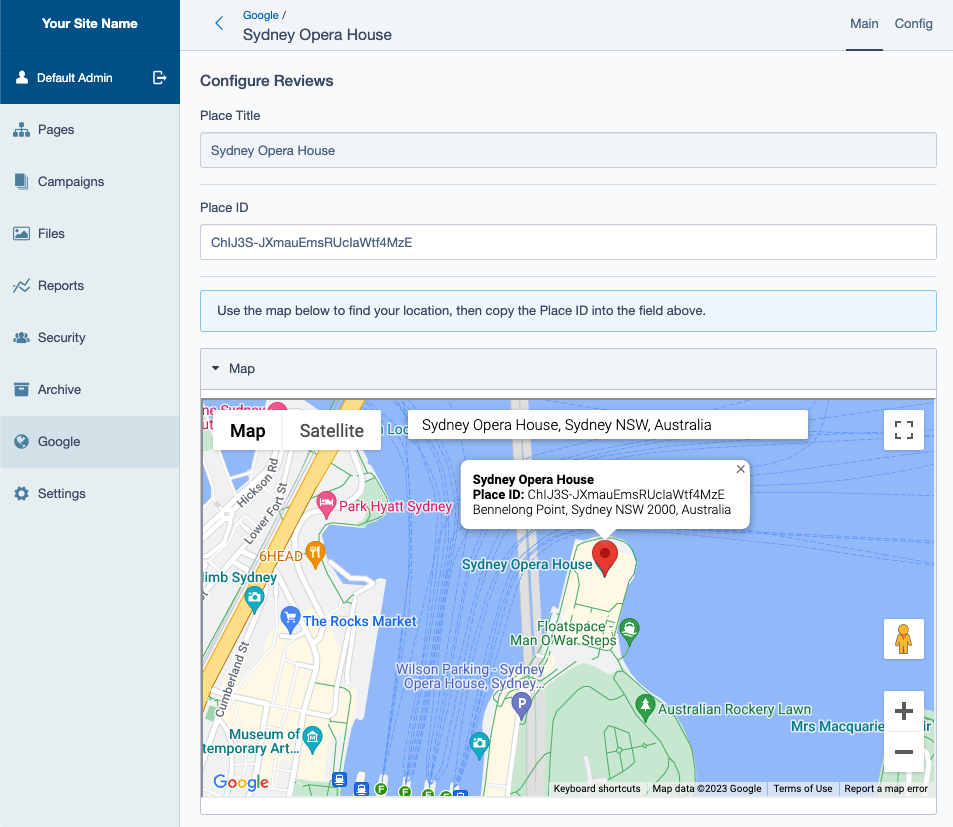
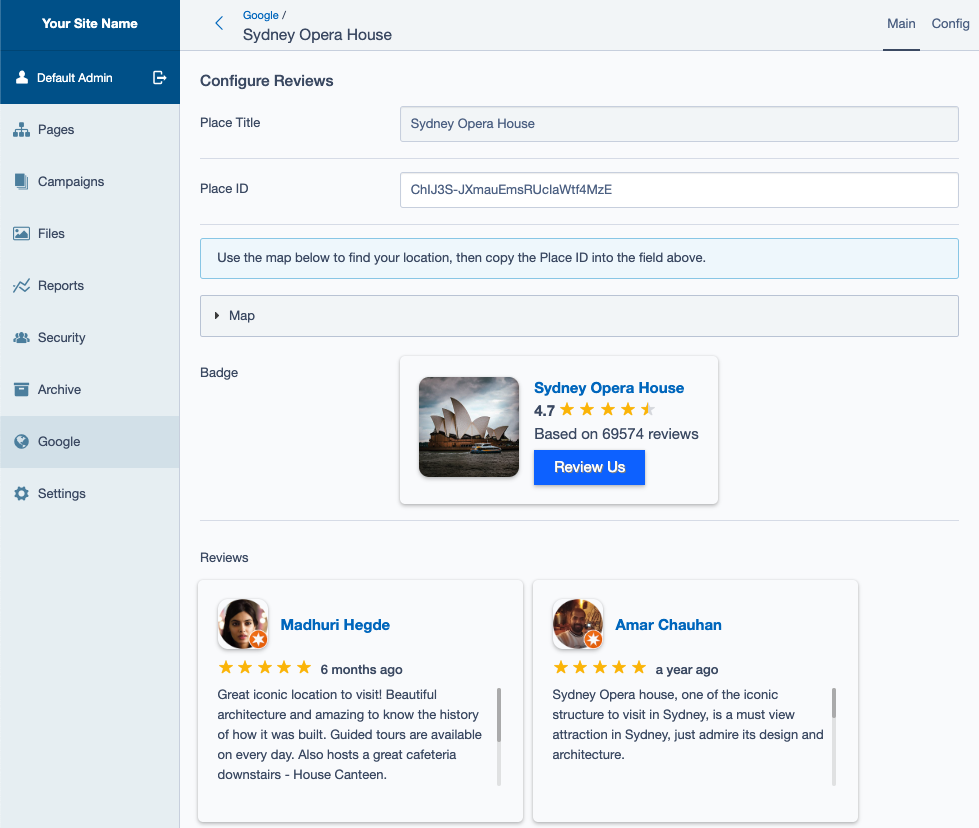
update readme

diff --git a/README.md b/README.md
@@ -36,10 +36,7 @@ You can call data from the Google settings on the frontend via `$GoogleConfig`, 
 
 ## Places 
 
-Setting up a Place in the CMS
+Setting up a Place in the CMS, with an example of the Review data
 
 ![Example of setting up a Place](docs/images/place-fields.png)
 
-The list of places in the CMS
-
-![List of Places](docs/images/place-gridfield.png)
